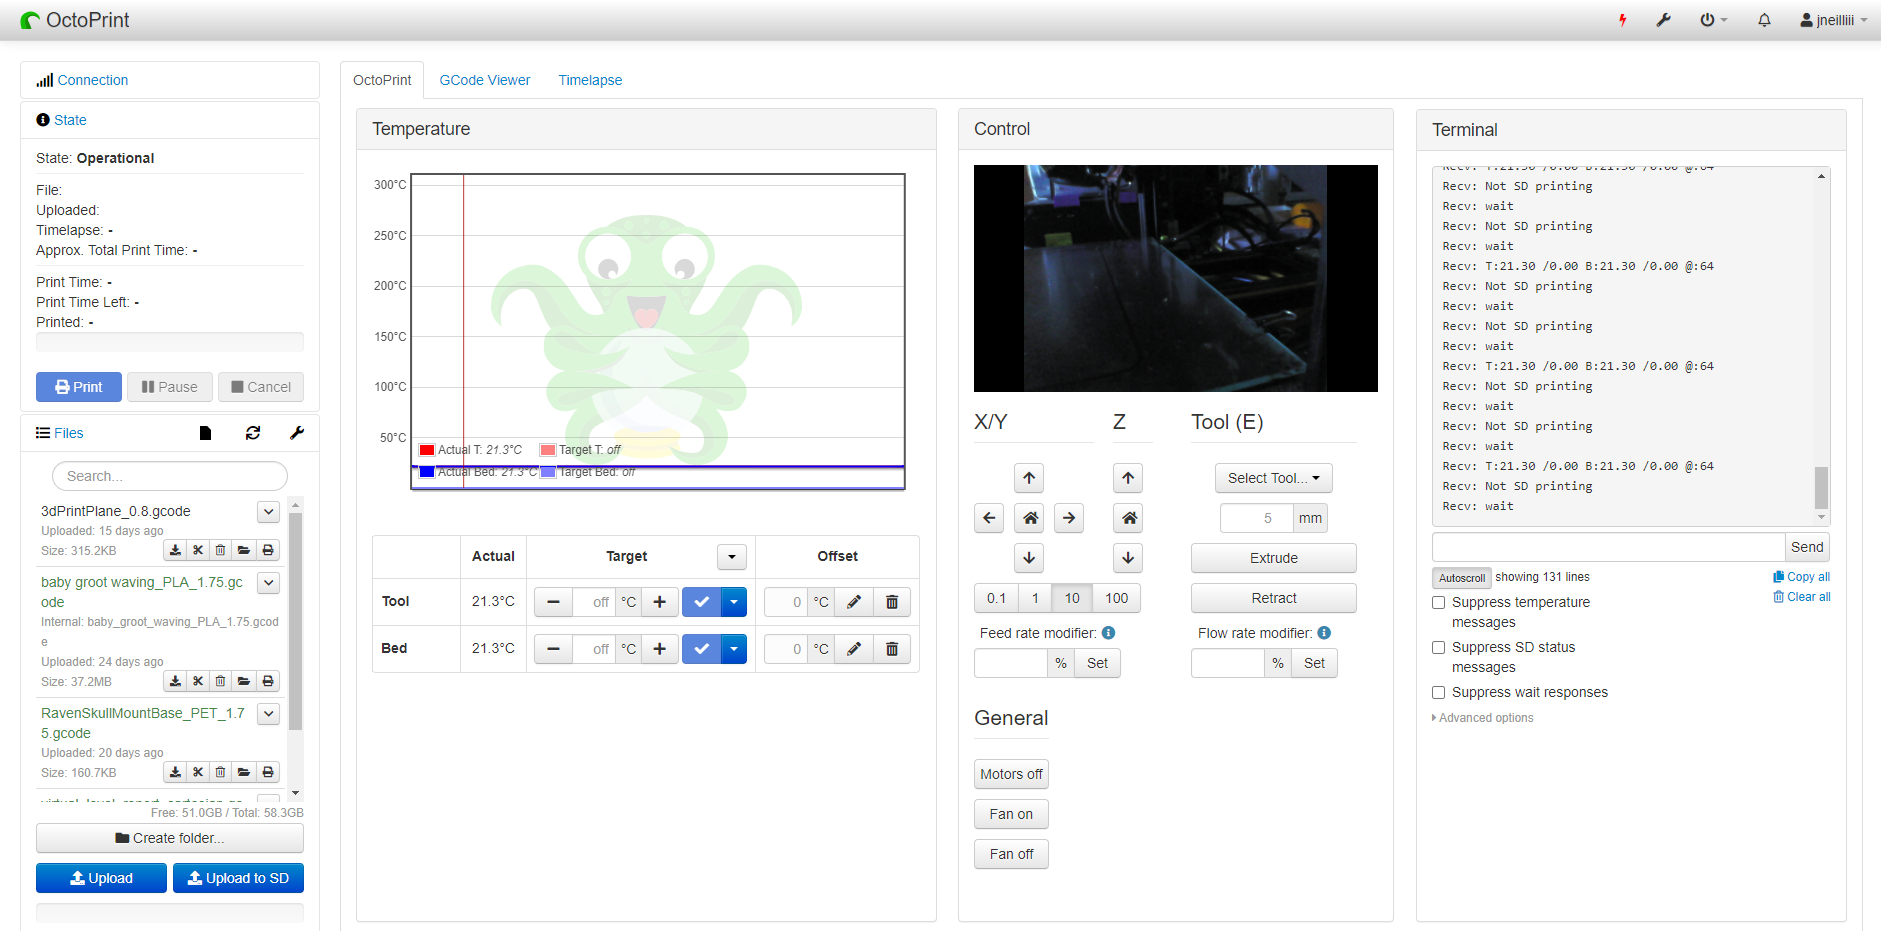
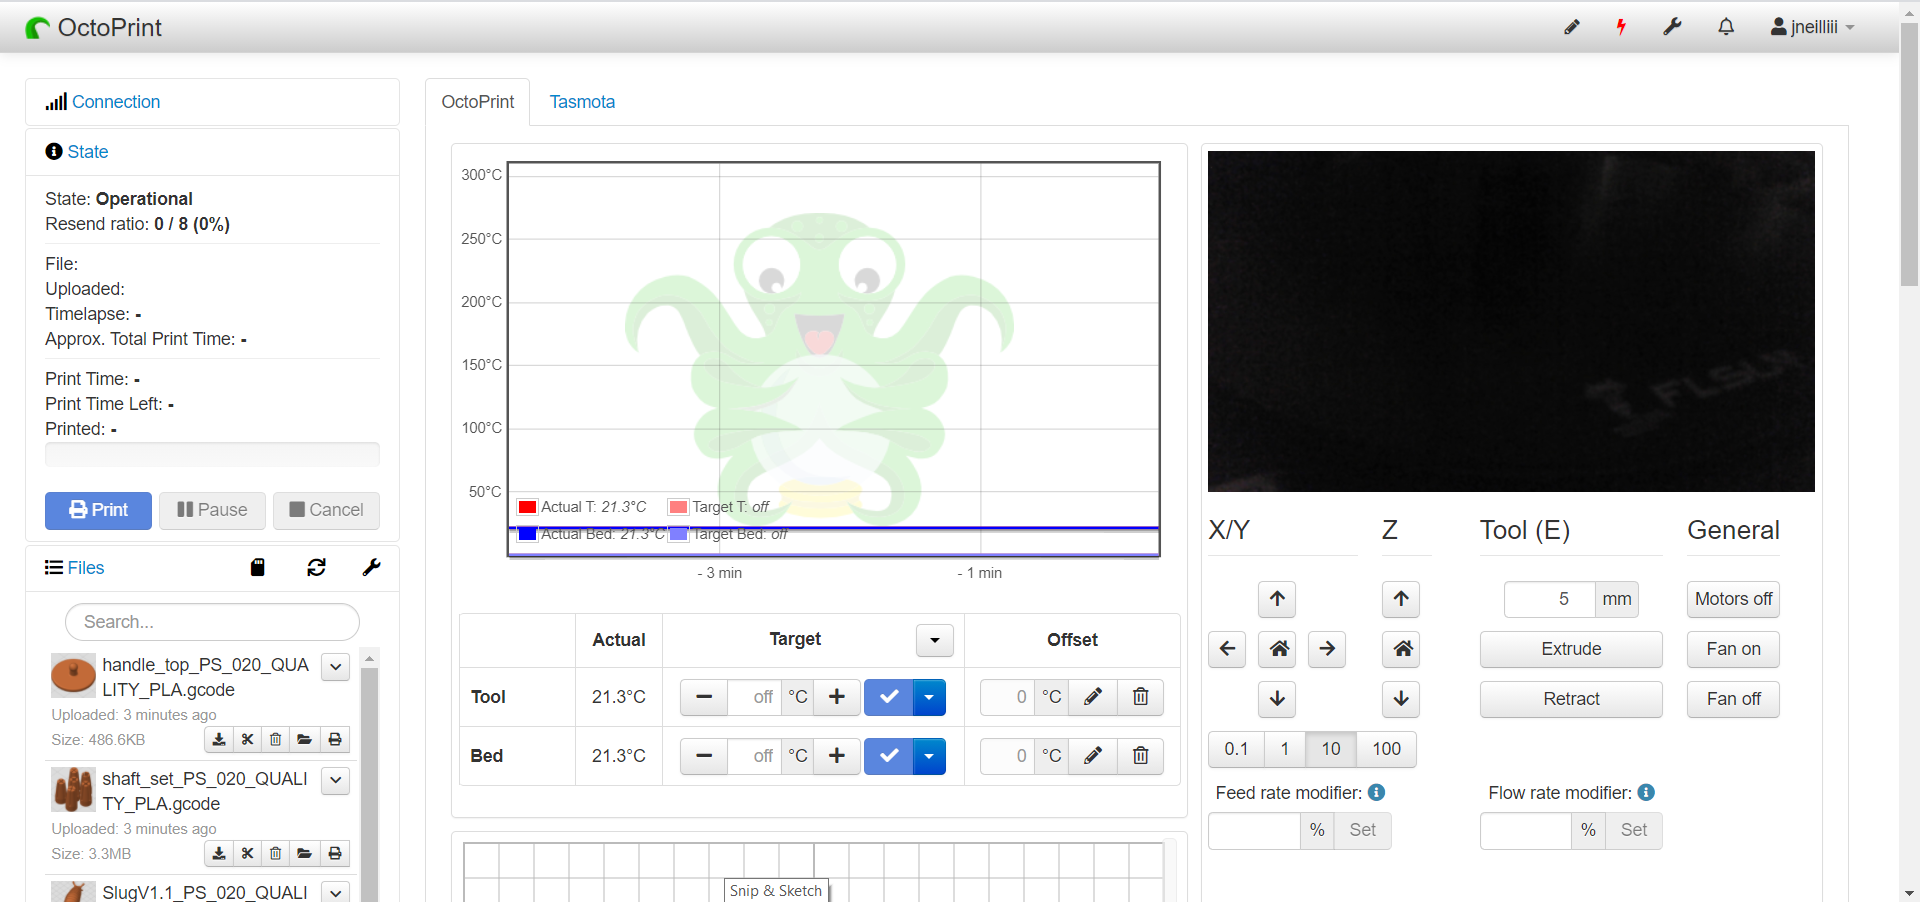
prep for 1.0.0 release

diff --git a/octoprint_consolidatedtabs/static/js/consolidatedtabs.js b/octoprint_consolidatedtabs/static/js/consolidatedtabs.js
@@ -25,6 +25,7 @@ $(function() {
 		self.editing = ko.observable(false);
 		self.saving = ko.observable(false);
 		self.widgets_removed = ko.observable(false);
+		self.widgets_added = ko.observable(false);
 		self.required_callbacks = {onTabChange: {}, onAfterTabChange: {}};
 		self.consolidated_tab_active = ko.observable(false);
 		self.hide_edit_button = ko.observable(false);
@@ -144,7 +145,7 @@ $(function() {
                     .done(function(data){
                         console.log(data);
                         self.saving(false);
-                        if (self.widgets_removed()){
+                        if (self.widgets_removed() || self.widgets_added()){
                             self.showReloadDialog();
                         }
                     });
@@ -163,7 +164,7 @@ $(function() {
 		    self.availableTabs.remove({'id': ko.observable(id), 'selector': ko.observable(selector), 'name': ko.observable(name)});
 		    $(selector).appendTo('div[gs-id='+id+'] div.grid-stack-item-content').removeClass('tab-pane');
 		    $('#'+id).remove();
-		    console.log(id, selector);
+		    self.widgets_removed(true);
         }
 
 		self.showReloadDialog = function(){

diff --git a/setup.py b/setup.py
@@ -14,7 +14,7 @@ plugin_package = "octoprint_consolidatedtabs"
 plugin_name = "Consolidated Tabs"
 
 # The plugin's version. Can be overwritten within OctoPrint's internal data via __plugin_version__ in the plugin module
-plugin_version = "0.1.4dev15"
+plugin_version = "1.0.0"
 
 # The plugin's description. Can be overwritten within OctoPrint's internal data via __plugin_description__ in the plugin
 # module

diff --git a/README.md b/README.md
@@ -1,10 +1,8 @@
 # Consolidated Tabs
 
-This plugin will allow you to combine the selected tabs into a single tab as draggable and resizable panels. Click the screenshot below to see an example YouTube video.
+This plugin will allow you to consolidate any OctoPrint tab into a single Consolidated Tab as a draggable and resizable panel. Click the screenshot below to see an example YouTube video. Since version 1.0.0 the plugin utilizes [gridstack.js](https://gridstackjs.com/) for positioning and sizing.
 
-[![screenshot tab](screenshot_tab.png)](https://www.youtube.com/watch?v=fd2xVNUORg8)
-
-**Note:** Initial positioning and sizing can be difficult due to the relative positioning of the panels. You may have to drag/resize and refresh the page a couple of times to get everything perfectly aligned. See [Tips](#Tips) for more information.
+[![screenshot tab](screenshot_tab.png)](https://youtu.be/1Qg6TIGGRB4)
 
 ## Setup
 
@@ -17,58 +15,48 @@ or manually using this URL:
 
 Click the screenshot below to open a YouTube video demonstrating setting up Consolidated Tabs.
 
-[![screenshot settings](screenshot_settings.png)](https://www.youtube.com/watch?v=rrzeOJF2u4A)
+[![screenshot settings](screenshot_settings.png)](https://youtu.be/BuJJV-giFNc)
 
-- **Snap to Edges While Dragging:** if enabled panels will snap to the edges of other panels while dragging.
-- **Combined Tabs Order:** all the tabs that will be combined into one tab as a panel.
-- **Uncombined Tabs:** tabs that have not been combined and will remain as their own tab.
 - **Resize Navbar:** whether to resize the width of the top navbar to 100% or not.
-- **Remove Tab Name:** don't show the name of the consolidated tab, only possible if all tabs are combined.
-- **Use Full Width of Browser:** if enabled the tab area will be sized to fit the entire width of the browser and the sidebar will be moved to the left.
-- **Clear All Positions and Sizes:** use the buttons to clear all position or size customizations, helpful when panels get moved off screen.
+- **Remove Tab Name:** don't show the name of the consolidated tab, only possible if all tabs are consolidated.
+- **Use Full Width of Browser:** if enabled the tab area will be sized to fit the entire width of the browser, and the sidebar will be moved to the left.
+- **Enable Floating Panels:** if enabled the panels will not auto collapse into available open space. Can be helpful when panels are jumping around a lot.
+- **Don't Show Instructions:** if enabled the instructions will not be displayed when enabling edit mode.
+- **Don't Show Edit Button:** if enabled the edit button in the navbar will be hidden.
+
+## Instructions
+
+![screenshot_instructions](screenshot_instructions.png)
 
 ## Tips
 
 - The name of the tab will match what is configured in OctoPrint's `Title` appearance setting.
-
-- The best way to get your panels sized and positioned is to order them in the plugin's settings first in the order that you want the panels to be in the consolidated tab. The panels will wrap from left to right and top to bottom in that order.
-
-- Hold down the shift key on your keyboard and click anywhere on a panel (typically in blank space or on header) to activate it. Once activated you can let go of the shift key.
-  - Move panels by clicking and dragging the panel header.
-  - Resize panels by clicking and dragging the edges of the panel.
-  - Once finished click any panel to deactivate the currently active panel.
-
-- Each panel is positioned relative to the panel that precedes it in settings, and as a result resizing a panel will cause the other panels to move, and potentially wrap if they extend past the containing tab.
-
-- There are circumstances in which a panel may jump out of view while dragging/resizing panels. If this happens you can use the `Clear Positions` button in the plugin's settings to make all the panels realign to each other.
+- It's best to consolidate the desired tabs first and save, reload, and then enable edit mode again to resize and position.
+- Panels will become full width automatically and realign once the tab's area width drops below a certain size.
 
 ## Themeify
 
-If using Themeify you will want to add extra settings to your Advanced options. These are the relevant css selectors that you will need to adjust.
+If using Themeify you may want to add extra settings to your Advanced options. These are the relevant css selectors that you can adjust.
 
-![screenshot themeify](screenshot_themeify.png)
+| Selector                                               | CSS-Rule         | Value             | Context             | Hidden Tab Name Specific |
+|--------------------------------------------------------|------------------|-------------------|---------------------|--------------------------|
+| .grid-stack-item.consolidated .grid-stack-item-content | background-color | #2f3136           | Each Panel          |                          |
+| .grid-stack-item.consolidated .grid-stack-item-content | border           | 1px solid #fc8003 | Panels Border       |                          |
+| #tabs_content                                          | box-shadow       | unset             | Tab content wrapper | Yes                      |
+| #tabs_content                                          | background-color | unset             | Tab content wrapper | Yes                      |
 
 ## To-Do
-* [ ] Figure out how to get rid of the extra whitespace at the bottom of the page after panels are positioned.
-* [ ] Figure out how to get temp panel to be selected when drop-downs are selected.
+* [X] ~~Figure out how to get rid of the extra whitespace at the bottom of the page after panels are positioned.~~
+* [X] ~~Figure out how to get temp panel to be selected when drop-downs are selected.~~ compromised with scrolling.
 * [X] ~~Add YouTube video showing placement and resizing of tabs.~~
 
 ## Most Recent Release
 
-**[0.1.3](https://github.com/jneilliii/OctoPrint-ConsolidatedTabs/releases/tag/0.1.3)** (11/21/2020)
+**[1.0.0](https://github.com/jneilliii/OctoPrint-ConsolidatedTabs/releases/tag/1.0.0)** (03/07/2021)
 
-**Added**
+**Warning: Major Changes**
 
-* release channels for OctoPrint 1.5.0+ for future rc testing, similar to OctoPrint as described [here](https://community.octoprint.org/t/how-to-use-the-release-channels-to-help-test-release-candidates/402)
-
-**Updated**
-
-* knockout sortable library for OctoPrint 1.5.0 compatibility
-
-**Fixed**
-
-* allow selecting contents of terminal tab
-* couple of tweaks related to Pretty GCode plugin
+* This plugin has been rewritten utilizing [gridstack.js](https://gridstackjs.com/) with a 24 wide column layout. As a result of this change all tabs will have to be re-consolidated after upgrade, review the updated [settings](https://github.com/jneilliii/OctoPrint-ConsolidatedTabs#settings) and new [instructions](https://github.com/jneilliii/OctoPrint-ConsolidatedTabs#instructions).
 
 ### [All Releases](https://github.com/jneilliii/OctoPrint-ConsolidatedTabs/releases)
 
